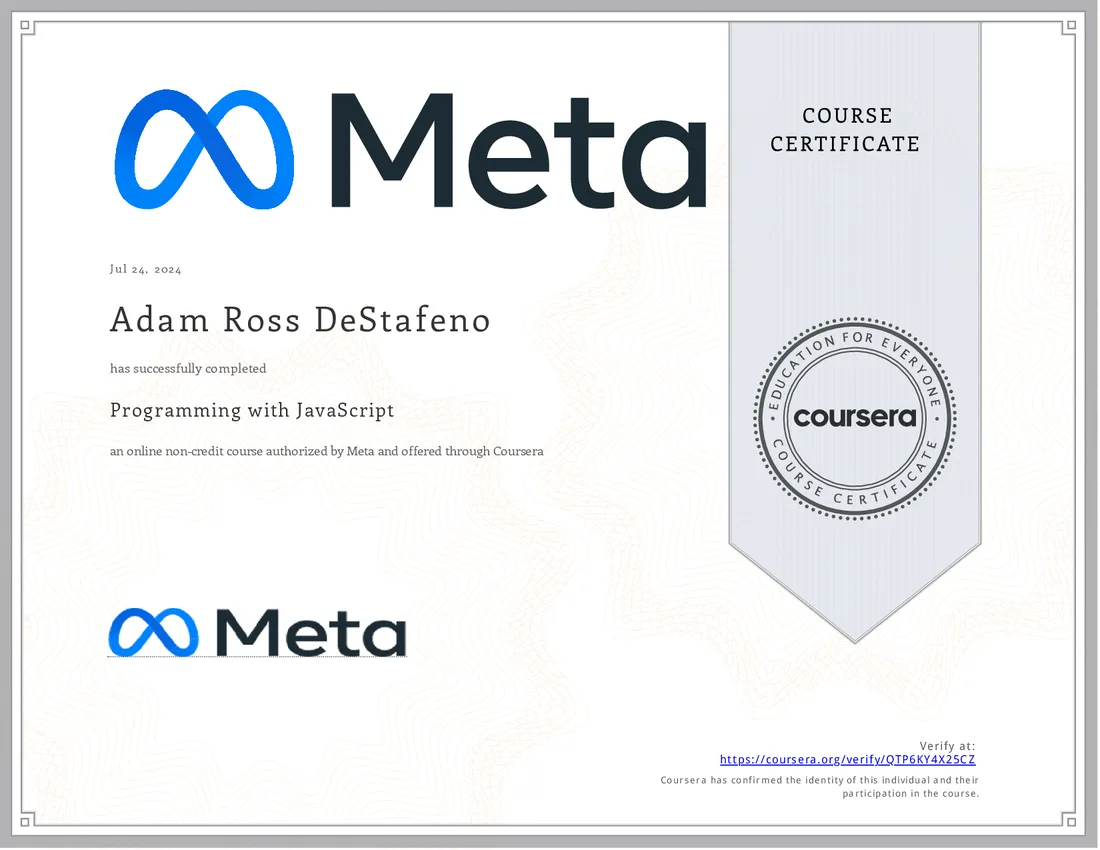
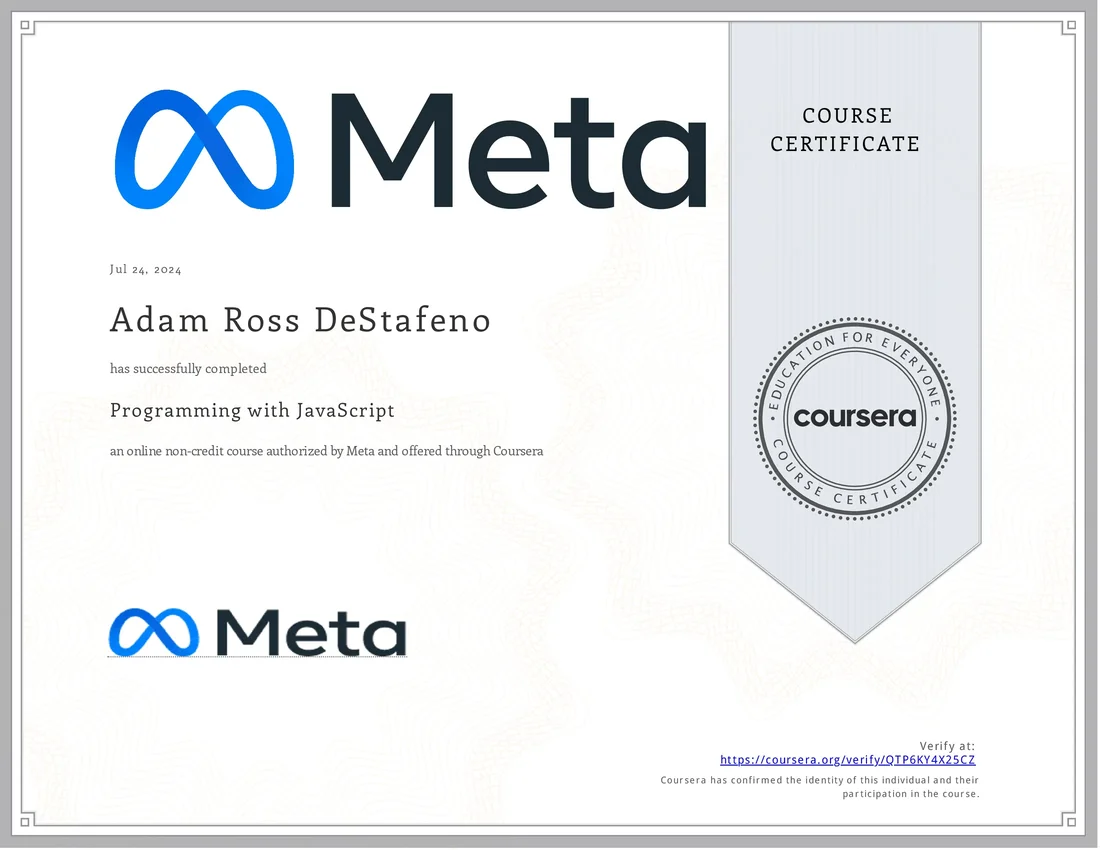
fix(gallery): polish card layout, intro and certificate images
- Re-rendered every certificate image from its PDF at 2200px and
  1100px, and added `image2x` to the `asset` helper in
  `certificates.js`.
- Switched card and modal images to `srcset` with `sizes`.
- Replaced the masonry columns with a CSS grid (`.cred-grid`) and
  gave each image a uniform certificate-shaped frame (`.cred-frame`).
- Removed the dark vignette overlay from card images.
- Clamped card titles to two lines and tightened card spacing.
- Restyled the View, Download and Verify actions as `spark-btn`
  pills, with tighter padding on narrow phones.
- Made the card meta line italic and slightly smaller.
- Replaced the long `fade-in` delays with a 0.4s fade staggered by
  `--i`, and honoured `prefers-reduced-motion`.
- Added an intro container under the header.
- Renamed the header, `title` and `og:title` to "Certifications &
  Credentials".
- Added `gallery.css` and linked it in `index.html`.

diff --git a/src/scripts/ui/CertificateCardFactory.js b/src/scripts/ui/CertificateCardFactory.js
@@ -1,7 +1,11 @@
 import { assetUrl, escapeHtml, formatDate } from '../utils/format.js';
 
-const LINK_CLASS =
-  'flex items-center gap-2 text-slate-400 hover:text-cyan-400 hover:translate-x-1 hover-pulse-blue transition-all duration-300 !font-sans !font-normal text-[clamp(0.8rem,1vw,0.9rem)]';
+// Home's `spark-btn` pill, with tighter padding below 480px so three fit on a phone.
+const BTN_CLASS =
+  'spark-btn flex items-center gap-2 px-3 py-2 min-[480px]:px-5 min-[480px]:py-2.5 rounded-full border border-cyan-900/30 text-cyan-400 hover:text-white hover:bg-cyan-900/30 hover:border-cyan-400/60 hover:shadow-[0_0_15px_rgba(0,255,255,0.2)] transition-all duration-500 ease-in-out text-sm font-medium !font-sans cursor-pointer';
+
+// Card image sizes follow the grid: one column on phones, two on tablets, three on desktop.
+const IMAGE_SIZES = '(min-width: 1024px) 400px, (min-width: 768px) 46vw, 92vw';
 
 /**
  * Factory responsible for generating certificate card DOM elements.
@@ -16,27 +20,26 @@ export class CertificateCardFactory {
   static createCard(cert) {
     const li = document.createElement('li');
     li.className =
-      'cert-item group/card repo-item-font fade-in relative bg-black/60 backdrop-blur-xl rounded-2xl shadow-[0_8px_32px_rgba(0,0,0,0.8)] cursor-pointer flex flex-col border border-cyan-900/30 hover:border-cyan-900/80 hover:shadow-[0_0_30px_rgba(0,255,255,0.15)] hover:-translate-y-2 active:scale-[0.96] transition-all duration-500 ease-in-out overflow-hidden h-fit break-inside-avoid mb-6';
+      'cert-item group/card repo-item-font fade-in relative bg-black/60 backdrop-blur-xl rounded-2xl shadow-[0_8px_32px_rgba(0,0,0,0.8)] cursor-pointer flex flex-col border border-cyan-900/30 hover:border-cyan-900/80 hover:shadow-[0_0_30px_rgba(0,255,255,0.15)] hover:-translate-y-2 active:scale-[0.96] transition-all duration-500 ease-in-out overflow-hidden';
     li.dataset.certId = cert.id;
 
     const verify = cert.verifyUrl
-      ? `<a href="${escapeHtml(cert.verifyUrl)}" target="_blank" rel="noopener noreferrer" class="${LINK_CLASS}" aria-label="Verify ${escapeHtml(cert.title)}"><i class="fas fa-check-circle"></i> <span class="hidden sm:inline italic">Verify</span></a>`
-      : `<button type="button" class="${LINK_CLASS}" aria-label="How to verify ${escapeHtml(cert.title)}"><i class="fas fa-check-circle"></i> <span class="hidden sm:inline italic">Verify</span></button>`;
+      ? `<a href="${escapeHtml(cert.verifyUrl)}" target="_blank" rel="noopener noreferrer" class="${BTN_CLASS}" aria-label="Verify ${escapeHtml(cert.title)}"><i class="fas fa-check-circle"></i> <span>Verify</span></a>`
+      : `<button type="button" class="${BTN_CLASS}" aria-label="How to verify ${escapeHtml(cert.title)}"><i class="fas fa-check-circle"></i> <span>Verify</span></button>`;
 
     li.innerHTML = `
-      <i class="fas fa-external-link-alt absolute top-6 right-6 text-slate-400 group-hover/card:text-cyan-400 group-hover/card:translate-x-1 group-has-[a:hover]/card:!text-slate-400 group-has-[a:hover]/card:!translate-x-0 transition-all duration-300 z-10 text-lg pointer-events-none"></i>
-      <div class="flex flex-col p-6">
-        <div class="mb-4 pr-8">
-          <span class="repo-name-font block w-full mb-2 font-bold">${escapeHtml(cert.title)}</span>
-          <p class="text-sm text-slate-400">${escapeHtml(cert.issuer)}${cert.provider !== cert.issuer ? ` · ${escapeHtml(cert.provider)}` : ''} · ${formatDate(cert.date)}</p>
+      <i class="fas fa-external-link-alt absolute top-4 right-4 sm:top-5 sm:right-5 text-slate-400 group-hover/card:text-cyan-400 group-hover/card:translate-x-1 group-has-[a:hover]/card:!text-slate-400 group-has-[a:hover]/card:!translate-x-0 transition-all duration-300 z-10 text-lg pointer-events-none"></i>
+      <div class="flex flex-col flex-1 p-4 sm:p-5">
+        <div class="mb-3 pr-8">
+          <span class="cred-title repo-name-font w-full mb-1 font-bold">${escapeHtml(cert.title)}</span>
+          <p class="cred-meta">${escapeHtml(cert.issuer)}${cert.provider !== cert.issuer ? ` · ${escapeHtml(cert.provider)}` : ''} · ${formatDate(cert.date)}</p>
         </div>
-        <div class="relative overflow-hidden w-full bg-black rounded-xl border border-cyan-500/40 shadow-[0_0_20px_rgba(0,255,255,0.15)]">
-          <img alt="${escapeHtml(cert.imageAlt)}" src="${assetUrl(cert.image)}" loading="lazy" decoding="async" class="w-full h-auto">
-          <div class="absolute inset-0 shadow-[inset_0_0_40px_rgba(0,0,0,0.9)] pointer-events-none"></div>
+        <div class="cred-frame overflow-hidden w-full rounded-xl border border-cyan-500/40 shadow-[0_0_20px_rgba(0,255,255,0.15)]">
+          <img alt="${escapeHtml(cert.imageAlt)}" src="${assetUrl(cert.image)}" srcset="${assetUrl(cert.image)} 1100w, ${assetUrl(cert.image2x)} 2200w" sizes="${IMAGE_SIZES}" loading="lazy" decoding="async">
         </div>
-        <div class="flex flex-wrap items-center gap-4 mt-4 pt-4 border-t border-[var(--blue-5)]/20 w-full">
-          <a href="${assetUrl(cert.pdf)}" target="_blank" rel="noopener noreferrer" class="${LINK_CLASS}" aria-label="View ${escapeHtml(cert.title)} PDF"><i class="fas fa-eye"></i> <span class="hidden sm:inline italic">View</span></a>
-          <a href="${assetUrl(cert.pdf)}" download class="${LINK_CLASS}" aria-label="Download ${escapeHtml(cert.title)} PDF"><i class="fas fa-download"></i> <span class="hidden sm:inline italic">Download</span></a>
+        <div class="flex flex-wrap items-center gap-2 mt-auto pt-4 w-full">
+          <a href="${assetUrl(cert.pdf)}" target="_blank" rel="noopener noreferrer" class="${BTN_CLASS}" aria-label="View ${escapeHtml(cert.title)} PDF"><i class="fas fa-eye"></i> <span>View</span></a>
+          <a href="${assetUrl(cert.pdf)}" download class="${BTN_CLASS}" aria-label="Download ${escapeHtml(cert.title)} PDF"><i class="fas fa-download"></i> <span>Download</span></a>
           ${verify}
         </div>
       </div>

diff --git a/index.html b/index.html
@@ -3,7 +3,7 @@
 <html lang="en">
   <head>
     <!-- Page title and basic metadata -->
-    <title>Adam Ross DeStafeno · Credentials</title>
+    <title>Certifications &amp; Credentials</title>
     <meta charset="UTF-8" />
     <meta name="viewport" content="width=device-width, initial-scale=1.0" />
     <meta
@@ -16,7 +16,7 @@
       content="credentials, certificates, certifications, Adam Ross DeStafeno, Ryuukae, web development"
     />
     <!-- openGraph metadata -->
-    <meta property="og:title" content="Adam Ross DeStafeno · Credentials" />
+    <meta property="og:title" content="Certifications &amp; Credentials" />
     <meta
       property="og:description"
       content="Certificates and credentials earned by Adam Ross DeStafeno (Ryuukae)."
@@ -38,6 +38,7 @@
     <link rel="stylesheet" href="./src/styles/tailwind.css" type="text/css" />
     <link rel="stylesheet" href="./src/styles/base-styles.css" type="text/css" />
     <link rel="stylesheet" href="./src/styles/font-styles.css" type="text/css" />
+    <link rel="stylesheet" href="./src/styles/gallery.css" type="text/css" />
     <link rel="stylesheet" href="./src/styles/modal.css" type="text/css" />
 
     <!--  Javascript imports -->
@@ -55,13 +56,36 @@
       <h1
         class="header-title header-title-font text-cyan-400 font-extrabold tracking-wider drop-shadow-[0_0_25px_rgba(0,255,255,1)]"
       >
-        Adam Ross DeStafeno · Credentials
+        Certifications &amp; Credentials
       </h1>
+    </div>
+
+    <!-- Intro -->
+    <div
+      class="subheader-container mx-auto max-w-4xl mt-8 mb-8 p-6 bg-black/60 backdrop-blur-xl border border-cyan-500/30 shadow-[0_8px_32px_rgba(0,0,0,0.8)] rounded-3xl flex flex-col items-center animate-border-pulse"
+    >
+      <p class="subheader font-mono tracking-wide leading-relaxed text-center text-gray-300">
+        <i
+          class="fas fa-certificate text-cyan-400 mr-2 drop-shadow-[0_0_8px_rgba(0,255,255,0.8)]"
+        ></i>
+        A verified collection of professional certifications held by
+        <span class="mt-3 inline-block">
+          <span
+            class="name-pulse-gradient italic font-bold px-1 drop-shadow-[0_0_8px_rgba(0,255,255,0.2)]"
+            >Adam Ross DeStafeno</span
+          >
+          (aka
+          <span
+            class="name-pulse-gradient italic font-bold px-1 drop-shadow-[0_0_8px_rgba(0,255,255,0.2)]"
+            >Ryuukae</span
+          >).
+        </span>
+      </p>
     </div>
 
     <!-- Credentials Section (filled by the gallery) -->
     <div class="flex flex-col mx-auto max-w-[1280px] py-[1%] px-[2%] w-full z-[11]">
-      <ul id="credentials-container" class="columns-1 md:columns-2 gap-6 list-none p-0"></ul>
+      <ul id="credentials-container" class="cred-grid"></ul>
     </div>
   </body>
 </html>

diff --git a/src/styles/keyframe-styles.css b/src/styles/keyframe-styles.css
@@ -44,69 +44,25 @@
 }
 
 /* Animation Classes */
+/* Short fade; `--i` (set in JS) staggers siblings by 40ms each. */
 .fade-in {
   opacity: 0;
-  animation: fade-in 3s ease-in-out forwards; /* Increased duration and changed timing function */
+  animation: fade-in 0.4s ease-out forwards;
+  animation-delay: calc(var(--i, 0) * 40ms);
 }
 
-.fade-in:nth-child(1) {
-  animation-delay: 1s;
-}
+@media (prefers-reduced-motion: reduce) {
+  .fade-in,
+  .subheader-container,
+  .header-subtitle-font {
+    animation: none;
+    opacity: 1;
+  }
 
-.fade-in:nth-child(2) {
-  animation-delay: 1.6s;
-}
-
-.fade-in:nth-child(3) {
-  animation-delay: 2s;
-}
-
-.fade-in:nth-child(4) {
-  animation-delay: 3.2s;
-}
-
-.fade-in:nth-child(5) {
-  animation-delay: 4s;
-}
-
-.fade-in:nth-child(6) {
-  animation-delay: 4.4s;
-}
-
-.fade-in:nth-child(7) {
-  animation-delay: 5s;
-}
-
-.fade-in:nth-child(8) {
-  animation-delay: 5.6s;
-}
-
-.fade-in:nth-child(9) {
-  animation-delay: 6.2s;
-}
-
-.fade-in:nth-child(10) {
-  animation-delay: 7s;
-}
-
-.fade-in:nth-child(11) {
-  animation-delay: 7.6s;
-}
-
-.fade-in:nth-child(12) {
-  animation-delay: 8.2s;
-}
-
-.fade-in:nth-child(13) {
-  animation-delay: 8.8s;
-}
-
-.fade-in:nth-child(14) {
-  animation-delay: 9.4s;
-}
-
-.fade-in:nth-child(15) {
-  animation-delay: 10s;
+  .animate-border-pulse,
+  .header-title {
+    animation: none;
+  }
 }
 
 @keyframes lighthouse-pulse {

diff --git a/src/styles/gallery.css b/src/styles/gallery.css
@@ -1,0 +1,37 @@
+/* src/styles/gallery.css */
+
+/* Columns come from the grid's own width, so the rule survives layout changes. */
+.cred-grid {
+  display: grid;
+  grid-template-columns: repeat(auto-fill, minmax(min(100%, 340px), 1fr));
+  gap: 1.5rem;
+  list-style: none;
+  margin: 0;
+  padding: 0;
+}
+
+/* Uniform certificate-shaped frame; portrait and landscape both fit inside it. */
+.cred-frame {
+  aspect-ratio: 22 / 17;
+  background: #000;
+}
+
+.cred-frame img {
+  display: block;
+  height: 100%;
+  object-fit: contain;
+  width: 100%;
+}
+
+.cred-title {
+  display: -webkit-box;
+  -webkit-box-orient: vertical;
+  -webkit-line-clamp: 2;
+  line-clamp: 2;
+}
+
+.cred-meta {
+  color: rgb(148 163 184);
+  font-size: 0.8rem;
+  font-style: italic;
+}

diff --git a/src/scripts/main.js b/src/scripts/main.js
@@ -16,8 +16,11 @@ document.addEventListener('DOMContentLoaded', () => {
   // Render the credential cards and wire up the detail modal
   const listContainer = document.getElementById('credentials-container');
   if (listContainer) {
-    certificates.forEach((cert) => {
-      listContainer.appendChild(CertificateCardFactory.createCard(cert));
+    certificates.forEach((cert, index) => {
+      const card = CertificateCardFactory.createCard(cert);
+      // Stagger the fade-in; capped so the whole grid settles in about a second.
+      card.style.setProperty('--i', Math.min(index, 15));
+      listContainer.appendChild(card);
     });
 
     const modalController = new ModalController(listContainer);

diff --git a/src/scripts/views/CertificateModalView.js b/src/scripts/views/CertificateModalView.js
@@ -97,6 +97,7 @@ export class CertificateModalView {
 
     const img = q('.modal-main-image');
     img.src = assetUrl(cert.image);
+    img.srcset = `${assetUrl(cert.image)} 1100w, ${assetUrl(cert.image2x)} 2200w`;
     img.alt = cert.imageAlt;
 
     this.hydrateFacts();

diff --git a/src/scripts/data/certificates.js b/src/scripts/data/certificates.js
@@ -8,6 +8,7 @@
 const asset = (id) => ({
   pdf: `certificates/pdf/${id}.pdf`,
   image: `certificates/img/${id}.webp`,
+  image2x: `certificates/img/${id}@2x.webp`,
 });
 
 const coursera = (code) => `https://coursera.org/verify/${code}`;
